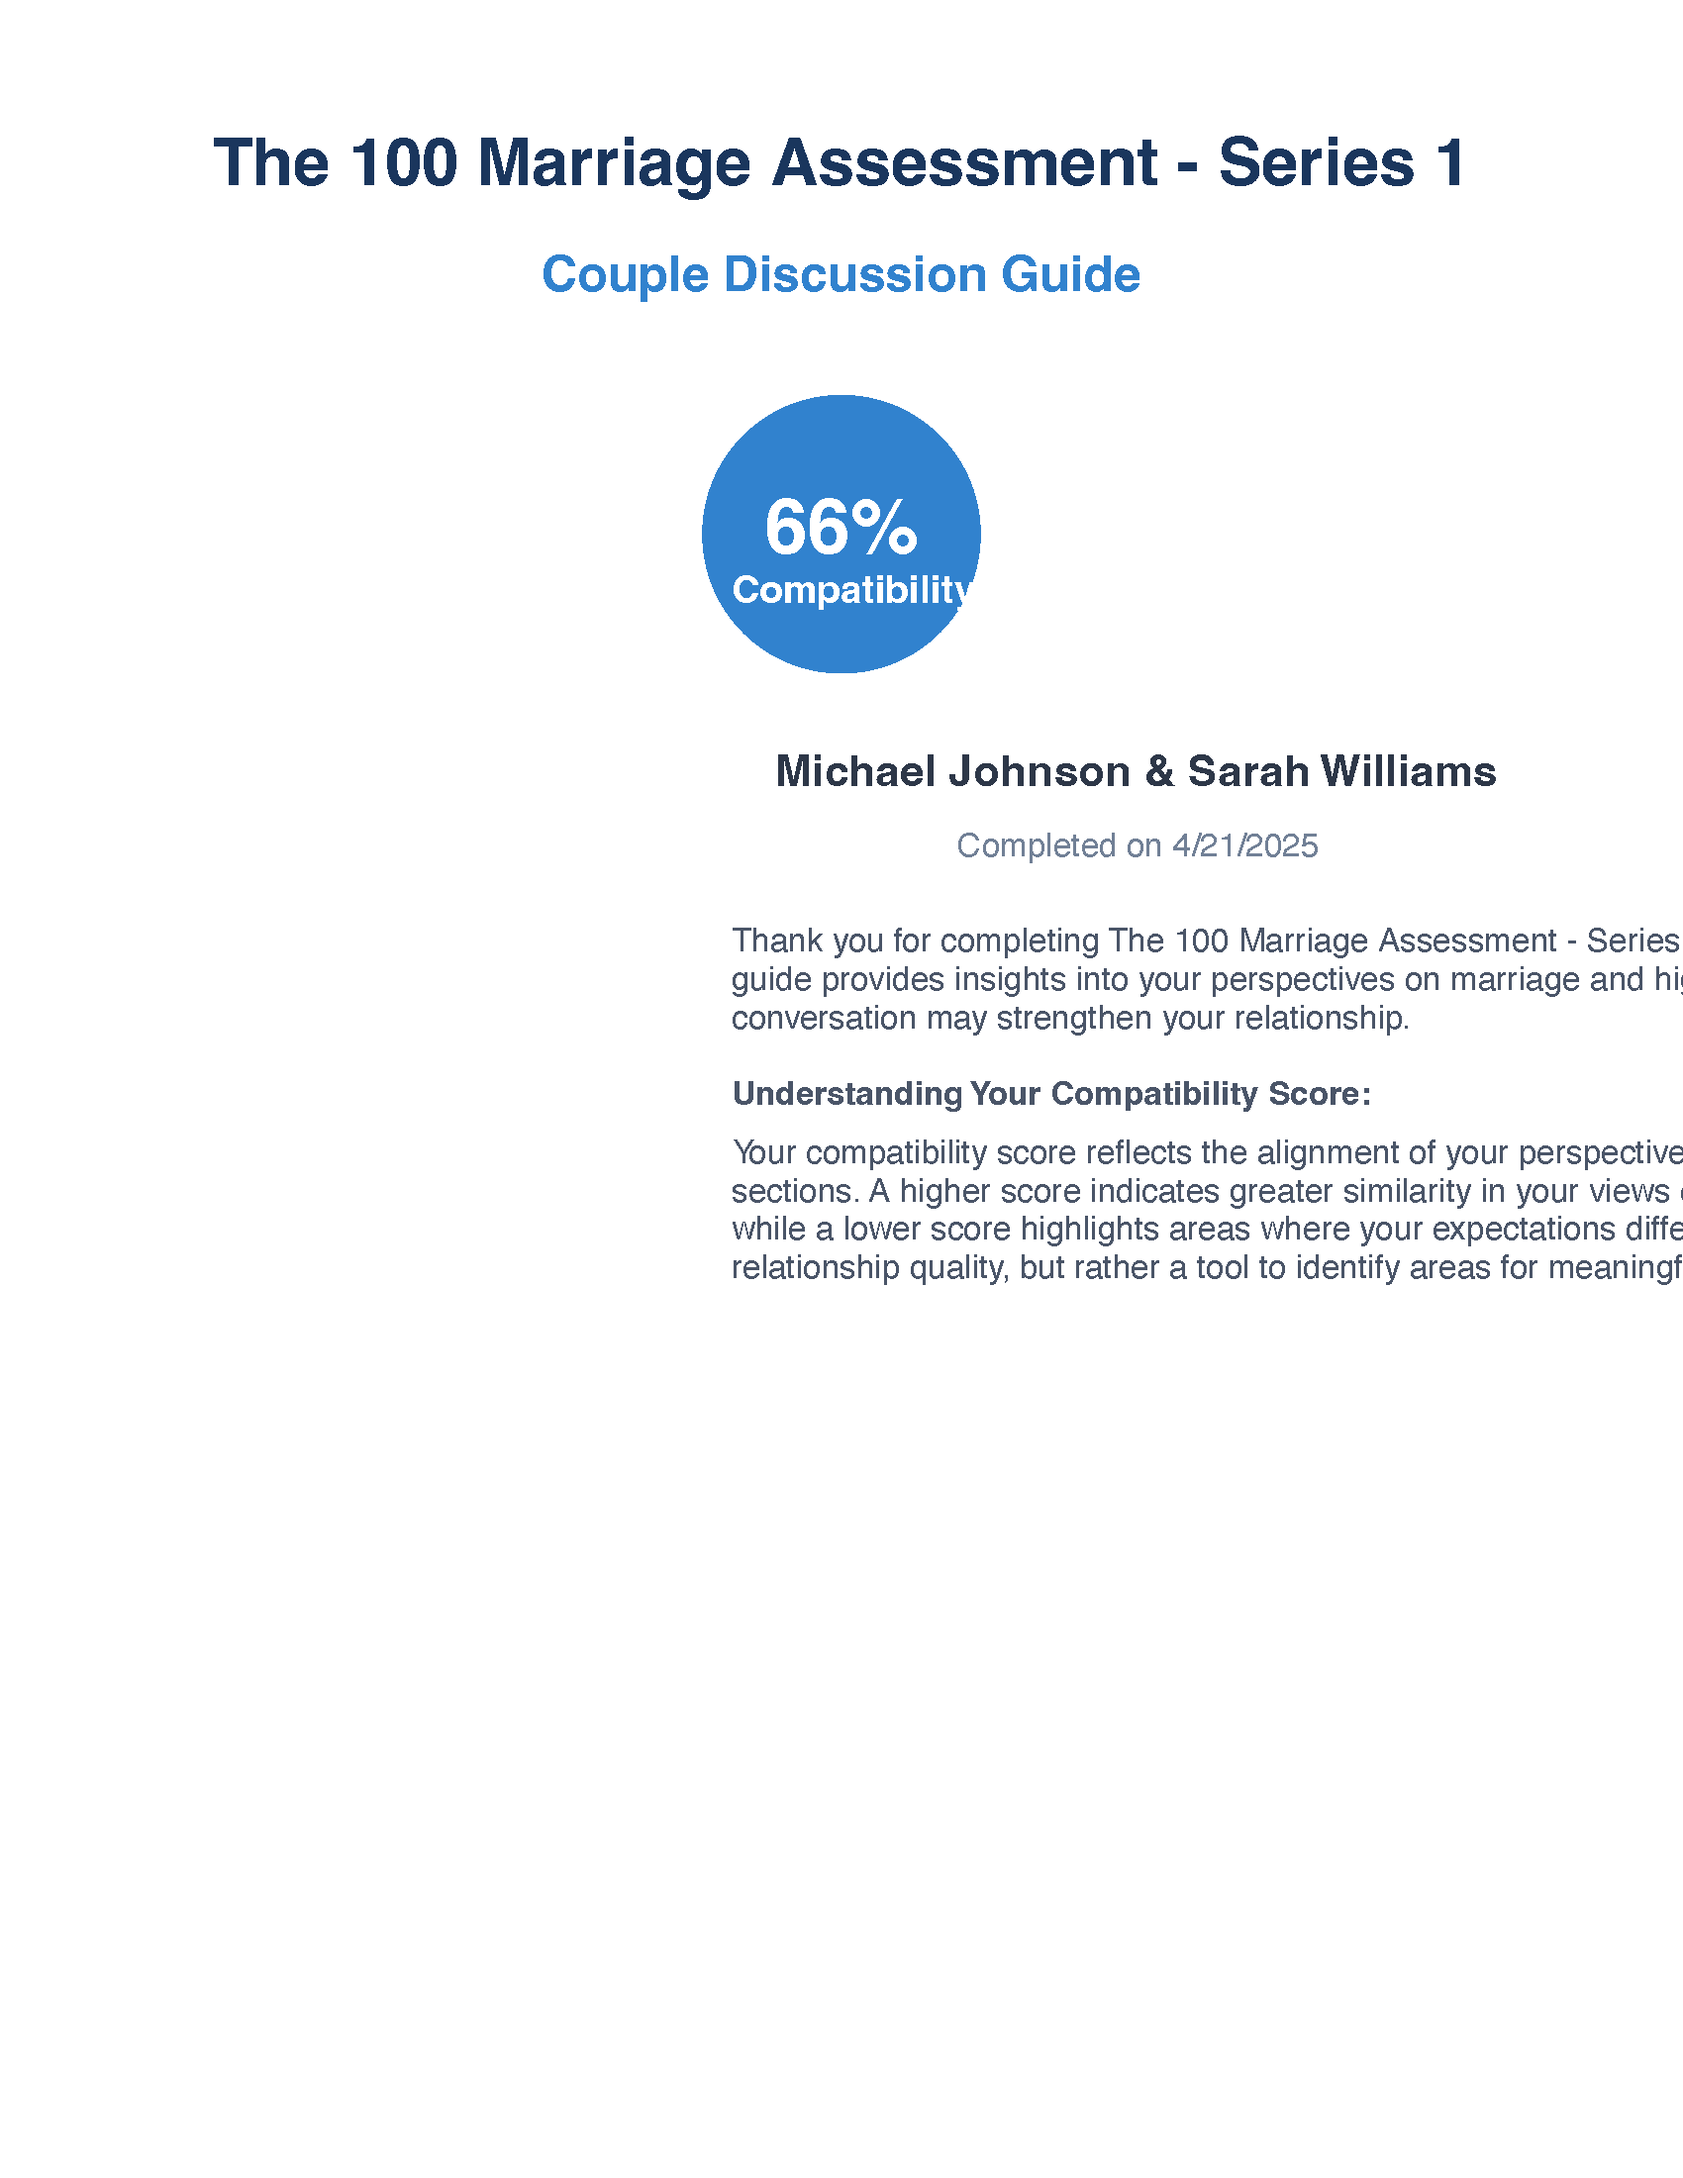
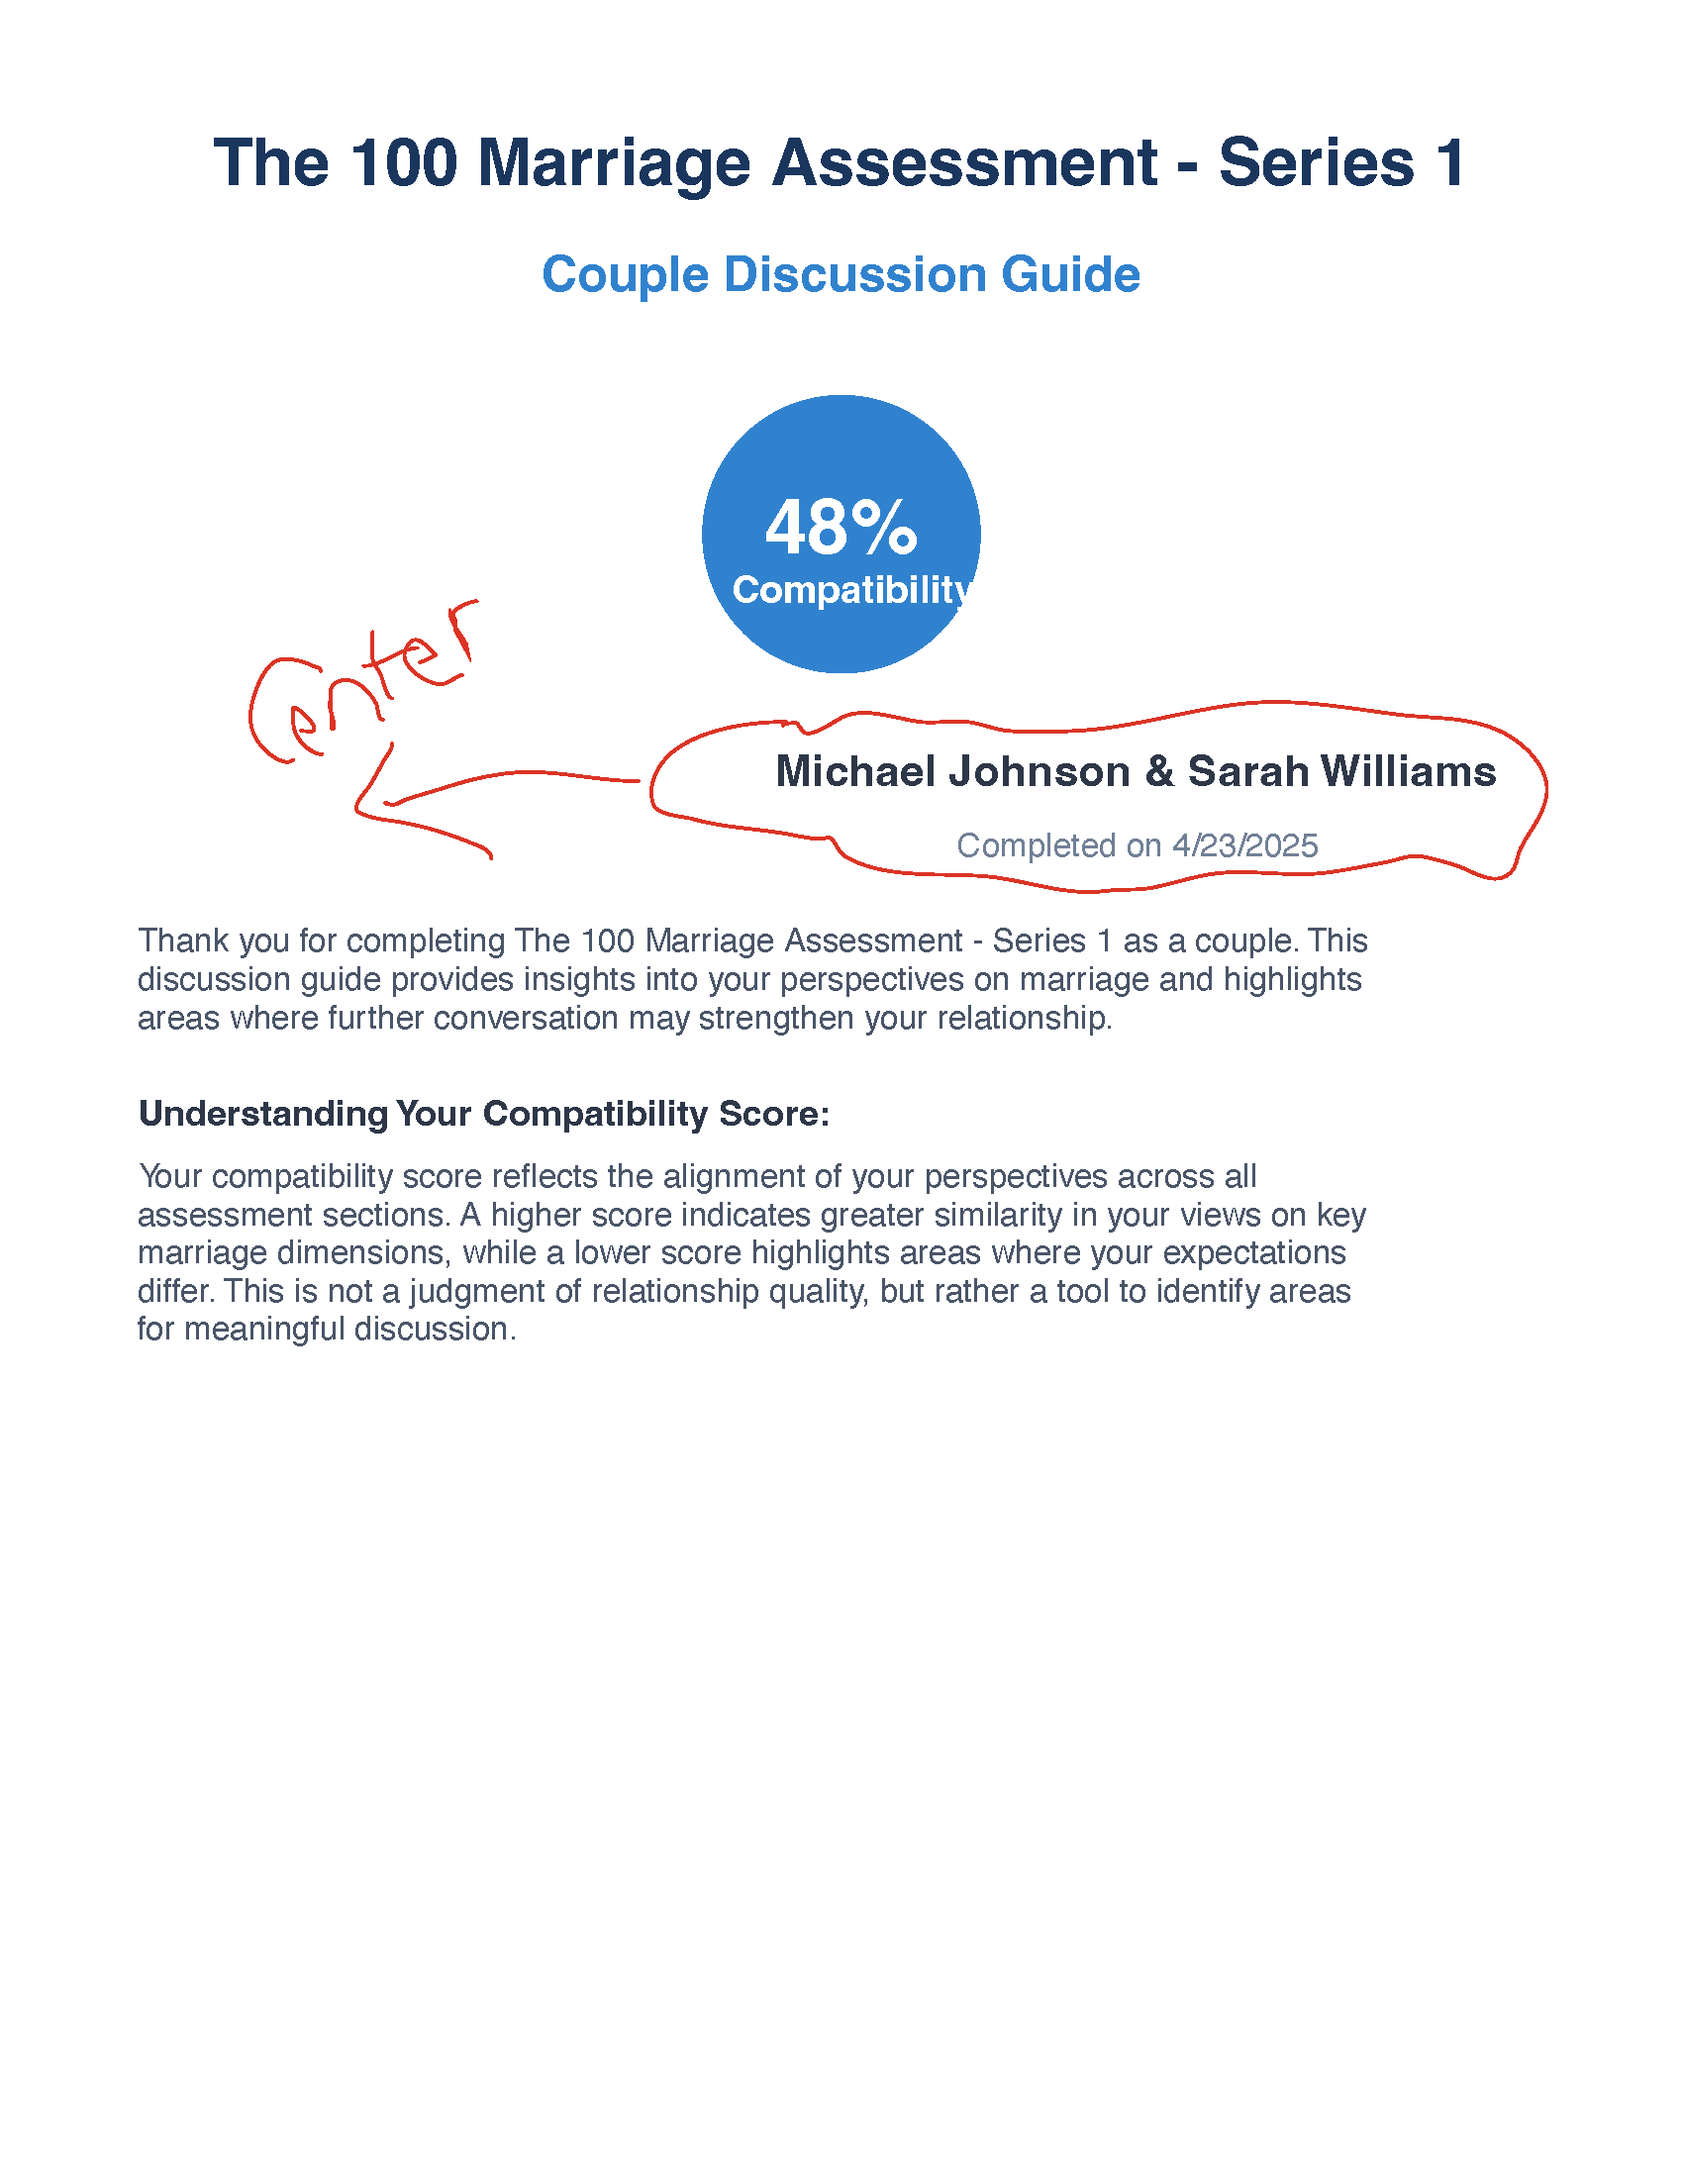
Improve report appearance with name centering, text adjustments, and matching
Refactor PDF generation in `updated-couple-pdf.ts` to center names, adjust text wrapping, and enhance profile matching.

Replit-Commit-Author: Agent
Replit-Commit-Session-Id: 492eb244-359e-4859-b52c-eb3875ae00ca
Replit-Commit-Screenshot-Url: https://storage.googleapis.com/screenshot-production-us-central1/8ed5d051-ce9f-4798-a0bc-e6401a356f7c/8a657fc7-1bef-4acd-b1c9-3ff63b7edd60.jpg

diff --git a/server/updated-couple-pdf.ts b/server/updated-couple-pdf.ts
@@ -92,11 +92,15 @@ export async function generateCoupleAssessmentPDF(report: CoupleAssessmentReport
       // Move past the circle
       doc.y = circleY + scoreRadius + 30;
       
-      // Couple names
+      // Couple names - properly centered
       doc.fontSize(16)
         .fillColor('#2d3748')
-        .font('Helvetica-Bold')
-        .text(`${primary.name} & ${spouse.name}`, { align: 'center' });
+        .font('Helvetica-Bold');
+      
+      // Calculate exact position for true centering
+      const coupleNames = `${primary.name} & ${spouse.name}`;
+      const coupleNamesWidth = doc.widthOfString(coupleNames);
+      doc.text(coupleNames, (doc.page.width / 2) - (coupleNamesWidth / 2), doc.y);
       
       // Completion date
       doc.moveDown(0.5)
@@ -471,29 +475,22 @@ export async function generateCoupleAssessmentPDF(report: CoupleAssessmentReport
       
       doc.y = summaryBoxY + 110;
       
-      // Book promotion box with image
+      // Book promotion box - expanded with no book cover placeholder
       const bookBoxY = doc.y;
-      doc.rect(50, bookBoxY, doc.page.width - 100, 120)
+      doc.rect(50, bookBoxY, doc.page.width - 100, 140) // Increase height to prevent text overrun
         .fillAndStroke('#f9f7ff', '#e9d8fd');
       
-      // Book cover placeholder
-      doc.rect(70, bookBoxY + 10, 70, 100)
-        .fillAndStroke('#3182ce', '#2b6cb0');
-      doc.fontSize(12)
-        .fillColor('white')
-        .text('BOOK\nCOVER', 70 + 15, bookBoxY + 45, { align: 'center', width: 40 });
-      
-      // Book promo text
+      // Book promo text - starts at left margin with more space
       doc.fontSize(14)
         .font('Helvetica-Bold')
         .fillColor('#553c9a')
-        .text("Continue Your Journey with \"The 100 Marriage\"", 160, bookBoxY + 20);
+        .text("Continue Your Journey with \"The 100 Marriage\"", 70, bookBoxY + 20);
         
       doc.fontSize(12)
         .font('Helvetica')
         .fillColor('#4a5568')
         .text("If you do not already own the book, purchase your copy of the bestselling book, The 100 Marriage, so you and your significant other have the opportunity to go back through each question together at your own pace.", 
-          160, bookBoxY + 45, { width: doc.page.width - 230 });
+          70, bookBoxY + 45, { width: doc.page.width - 140 }); // Full width without book cover
           
       doc.moveDown(0.8);
       
@@ -501,7 +498,7 @@ export async function generateCoupleAssessmentPDF(report: CoupleAssessmentReport
         .font('Helvetica')
         .fillColor('#4a5568')
         .text("Alternatively, you can follow the path of many couples who complete The 100 Marriage and decide they would like to walk through their points of misaligned with counsel.", 
-          160, doc.y, { width: doc.page.width - 230 });
+          70, doc.y, { width: doc.page.width - 140 }); // Full width without book cover
       
       // Consultation link
       doc.moveDown(2)
